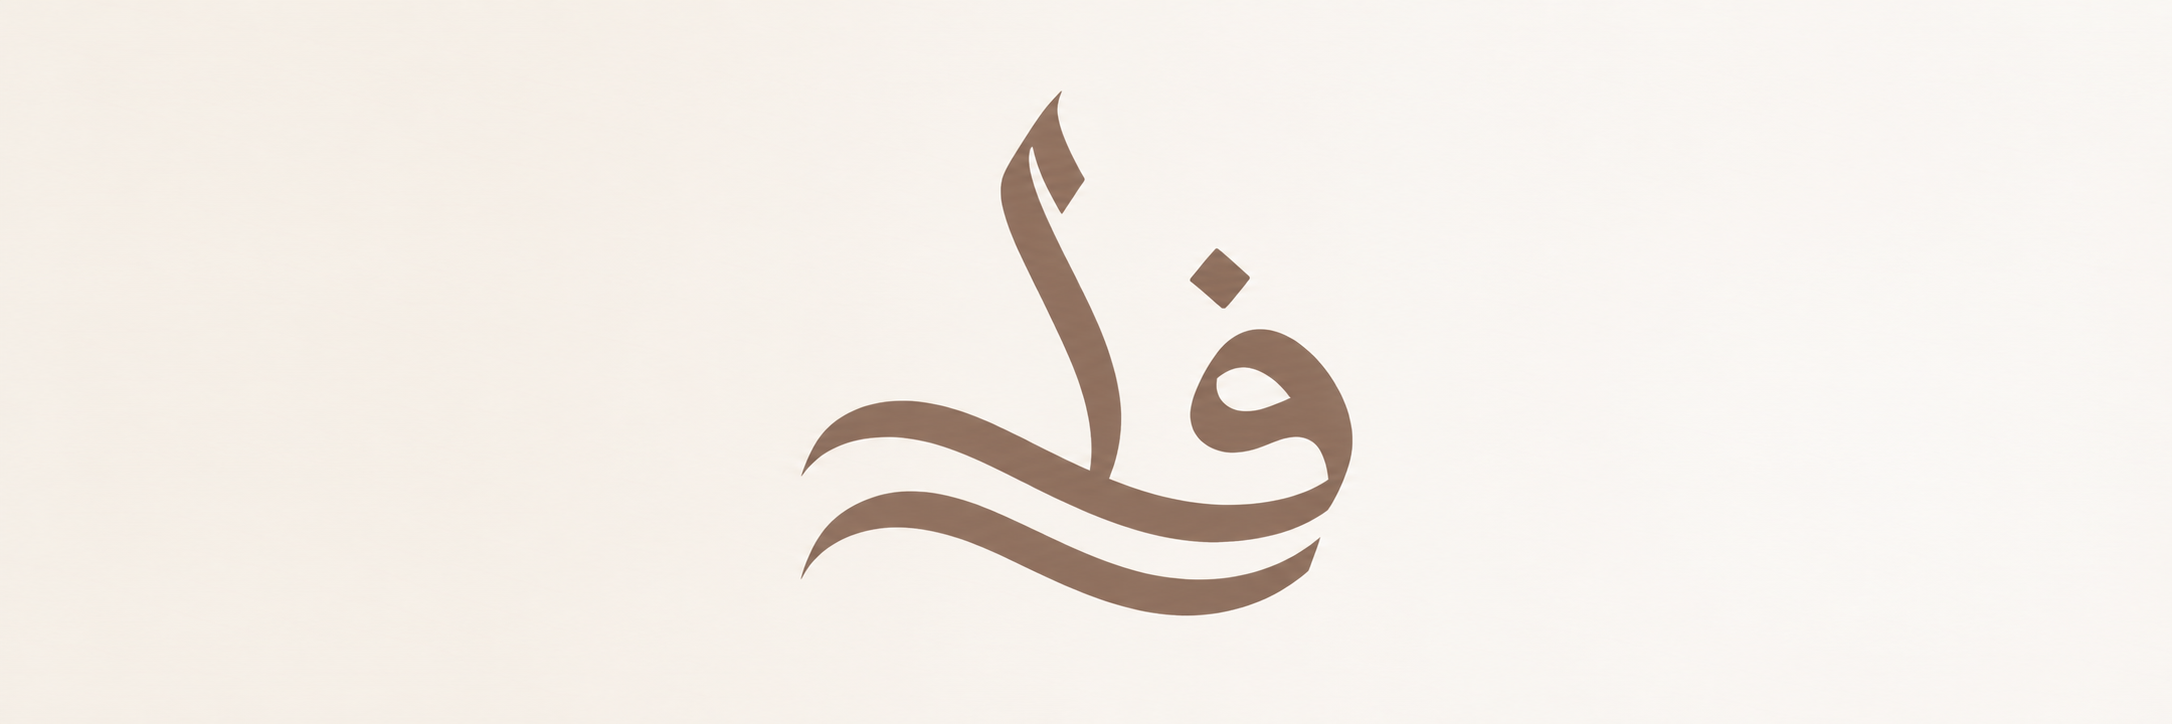
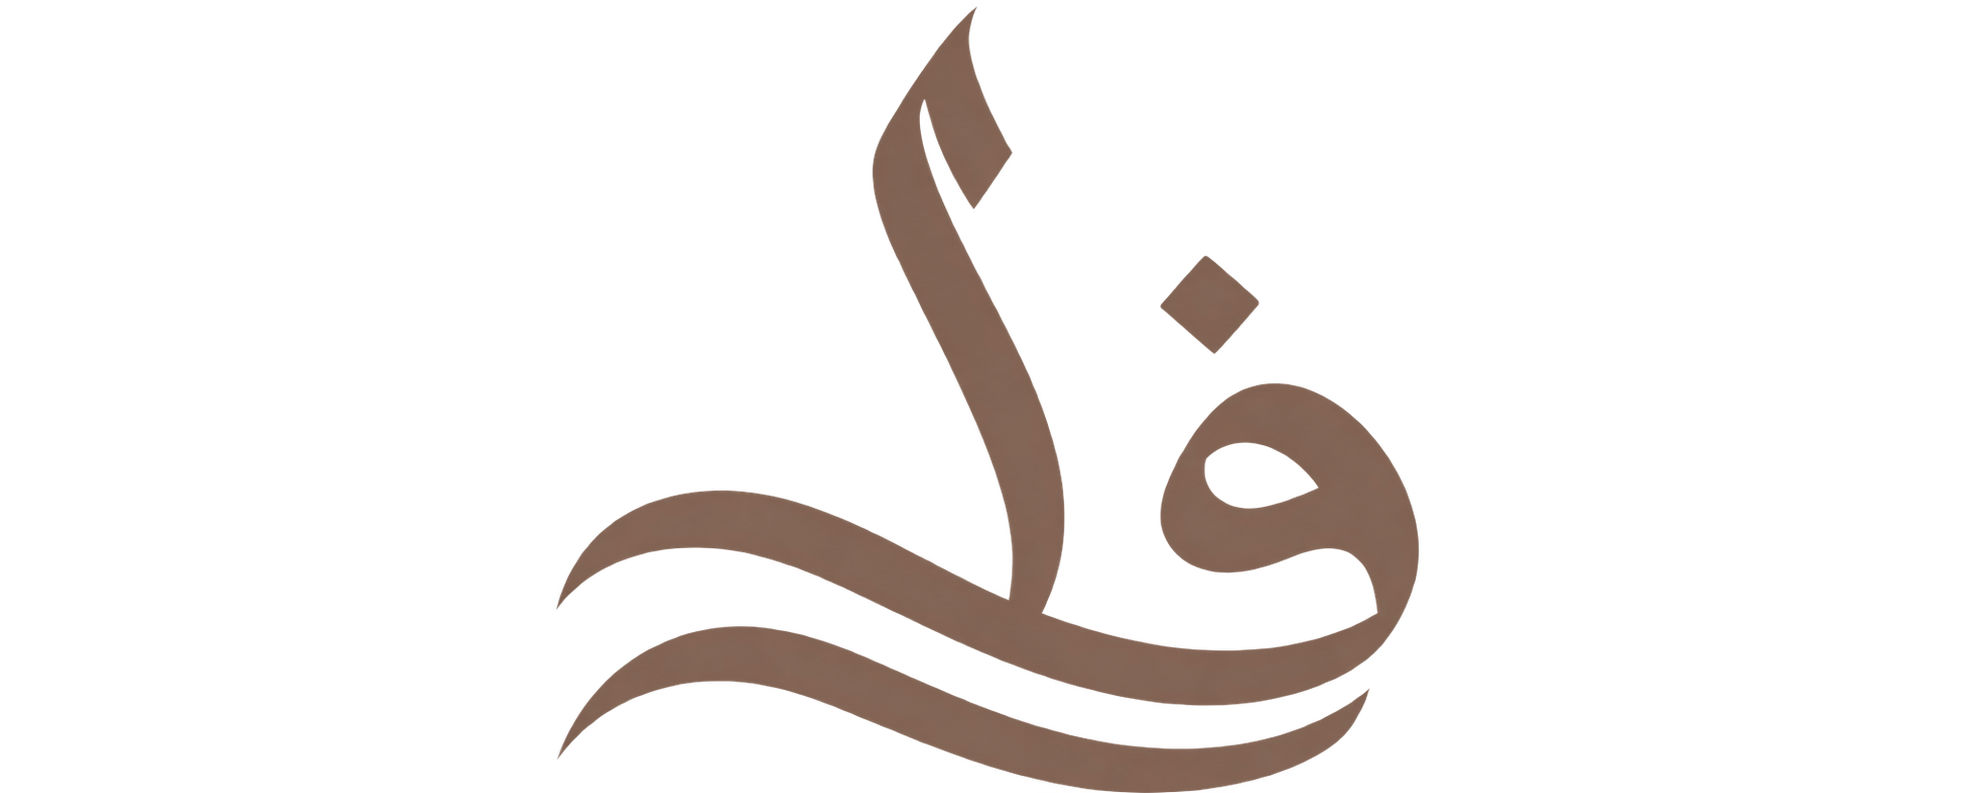
Use transparent supplied invitation artwork

Changed region(s): [[0.0, 0.0, 0.2461, 1.0], [0.2769, 0.0304, 0.7383, 1.0], [0.2461, 0.0, 0.2769, 0.0304]]

diff --git a/app/globals.css b/app/globals.css
@@ -2559,3 +2559,9 @@ body { margin: 0; background: #e9dfcf; }
   .inside-monogram { margin-top: 31px; }
   .inline-rsvp { margin-bottom: 52px; }
 }
+
+/* V23 — transparent supplied artwork needs no background blending */
+.inside-monogram img,
+.inside-ornament {
+  mix-blend-mode: normal;
+}
